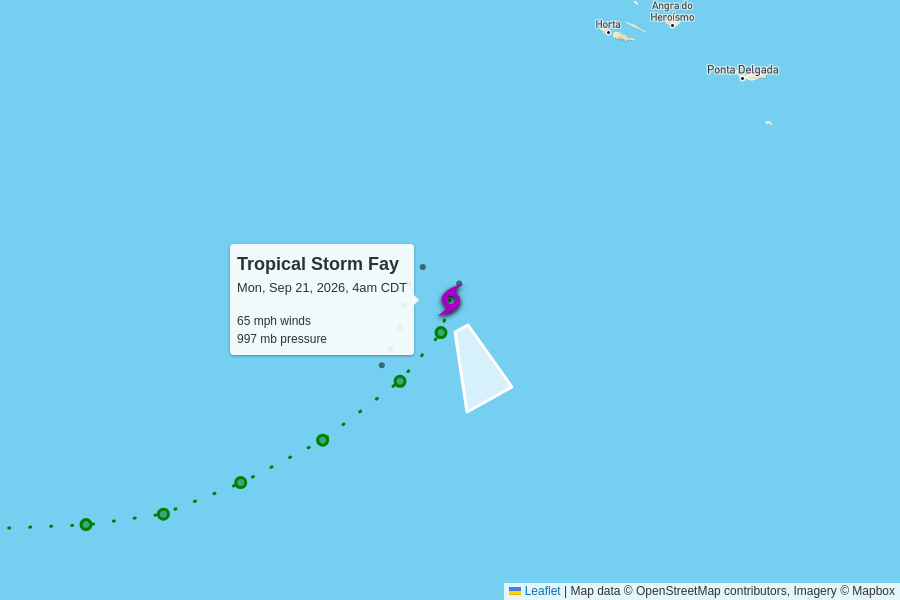
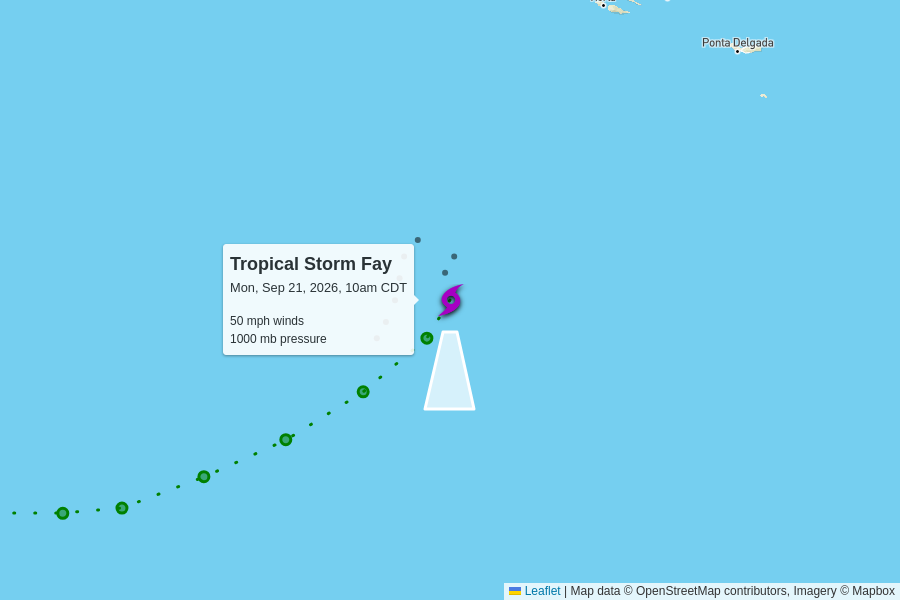
automatic update

diff --git a/docs/2026.html b/docs/2026.html
@@ -45,13 +45,13 @@
       <grid-container>
           <grid-row>
             <script type="text/json" id="storm_data_AL062026">
-              {"pressure":[{"timestamp":"2026-09-19T15:00:00.000Z","value":1009},{"timestamp":"2026-09-19T21:00:00.000Z","value":1007},{"timestamp":"2026-09-20T03:00:00.000Z","value":1007},{"timestamp":"2026-09-20T09:00:00.000Z","value":1004},{"timestamp":"2026-09-20T15:00:00.000Z","value":1004},{"timestamp":"2026-09-20T21:00:00.000Z","value":999},{"timestamp":"2026-09-21T03:00:00.000Z","value":995},{"timestamp":"2026-09-21T09:00:00.000Z","value":997}],"wind":[{"timestamp":"2026-09-19T15:00:00.000Z","value":35},{"timestamp":"2026-09-19T21:00:00.000Z","value":35},{"timestamp":"2026-09-20T03:00:00.000Z","value":35},{"timestamp":"2026-09-20T09:00:00.000Z","value":45},{"timestamp":"2026-09-20T15:00:00.000Z","value":60},{"timestamp":"2026-09-20T21:00:00.000Z","value":65},{"timestamp":"2026-09-21T03:00:00.000Z","value":70},{"timestamp":"2026-09-21T09:00:00.000Z","value":65}]}
+              {"pressure":[{"timestamp":"2026-09-19T15:00:00.000Z","value":1009},{"timestamp":"2026-09-19T21:00:00.000Z","value":1007},{"timestamp":"2026-09-20T03:00:00.000Z","value":1007},{"timestamp":"2026-09-20T09:00:00.000Z","value":1004},{"timestamp":"2026-09-20T15:00:00.000Z","value":1004},{"timestamp":"2026-09-20T21:00:00.000Z","value":999},{"timestamp":"2026-09-21T03:00:00.000Z","value":995},{"timestamp":"2026-09-21T09:00:00.000Z","value":997},{"timestamp":"2026-09-21T15:00:00.000Z","value":1000}],"wind":[{"timestamp":"2026-09-19T15:00:00.000Z","value":35},{"timestamp":"2026-09-19T21:00:00.000Z","value":35},{"timestamp":"2026-09-20T03:00:00.000Z","value":35},{"timestamp":"2026-09-20T09:00:00.000Z","value":45},{"timestamp":"2026-09-20T15:00:00.000Z","value":60},{"timestamp":"2026-09-20T21:00:00.000Z","value":65},{"timestamp":"2026-09-21T03:00:00.000Z","value":70},{"timestamp":"2026-09-21T09:00:00.000Z","value":65},{"timestamp":"2026-09-21T15:00:00.000Z","value":50}]}
             </script>              <grid-container class="storm">
                 <grid-row onClick="toggle('storm_AL062026')">
                   <h2>
                     Tropical Storm Fay
                     <div class="updated">
-                      last updated <time datetime="2026-09-21T09:00:00.000Z">2026-09-21T09:00:00.000Z</time>
+                      last updated <time datetime="2026-09-21T15:00:00.000Z">2026-09-21T15:00:00.000Z</time>
                     </div>
                   </h2>
                 </grid-row>
@@ -67,19 +67,19 @@
                       </tr>
                       <tr>
                         <td>
-                          65 mph
+                          50 mph
                           <br>
-                          -5 mph since last update
+                          -15 mph since last update
                         </td>
                         <td>
-                          997 mb
+                          1000 mb
                           <br>
-                          +2 mb since last update
+                          +3 mb since last update
                         </td>
                         <td>
-                          2 mph to the south-southeast
+                          5 mph to the south
                           <br>
-                          <span style="display: inline-block; font-size: 1.5em; transform: rotate(155deg);">↑</span>
+                          <span style="display: inline-block; font-size: 1.5em; transform: rotate(180deg);">↑</span>
                         </td>
                         <td>
                           <a href="https://raw.githubusercontent.com/mgwalker/atlantic-hurricanes/main/data/csv/AL062026.csv">AL062026.csv</a>

diff --git a/docs/index.html b/docs/index.html
@@ -45,13 +45,13 @@
       <grid-container>
           <grid-row>
             <script type="text/json" id="storm_data_AL062026">
-              {"pressure":[{"timestamp":"2026-09-19T15:00:00.000Z","value":1009},{"timestamp":"2026-09-19T21:00:00.000Z","value":1007},{"timestamp":"2026-09-20T03:00:00.000Z","value":1007},{"timestamp":"2026-09-20T09:00:00.000Z","value":1004},{"timestamp":"2026-09-20T15:00:00.000Z","value":1004},{"timestamp":"2026-09-20T21:00:00.000Z","value":999},{"timestamp":"2026-09-21T03:00:00.000Z","value":995},{"timestamp":"2026-09-21T09:00:00.000Z","value":997}],"wind":[{"timestamp":"2026-09-19T15:00:00.000Z","value":35},{"timestamp":"2026-09-19T21:00:00.000Z","value":35},{"timestamp":"2026-09-20T03:00:00.000Z","value":35},{"timestamp":"2026-09-20T09:00:00.000Z","value":45},{"timestamp":"2026-09-20T15:00:00.000Z","value":60},{"timestamp":"2026-09-20T21:00:00.000Z","value":65},{"timestamp":"2026-09-21T03:00:00.000Z","value":70},{"timestamp":"2026-09-21T09:00:00.000Z","value":65}]}
+              {"pressure":[{"timestamp":"2026-09-19T15:00:00.000Z","value":1009},{"timestamp":"2026-09-19T21:00:00.000Z","value":1007},{"timestamp":"2026-09-20T03:00:00.000Z","value":1007},{"timestamp":"2026-09-20T09:00:00.000Z","value":1004},{"timestamp":"2026-09-20T15:00:00.000Z","value":1004},{"timestamp":"2026-09-20T21:00:00.000Z","value":999},{"timestamp":"2026-09-21T03:00:00.000Z","value":995},{"timestamp":"2026-09-21T09:00:00.000Z","value":997},{"timestamp":"2026-09-21T15:00:00.000Z","value":1000}],"wind":[{"timestamp":"2026-09-19T15:00:00.000Z","value":35},{"timestamp":"2026-09-19T21:00:00.000Z","value":35},{"timestamp":"2026-09-20T03:00:00.000Z","value":35},{"timestamp":"2026-09-20T09:00:00.000Z","value":45},{"timestamp":"2026-09-20T15:00:00.000Z","value":60},{"timestamp":"2026-09-20T21:00:00.000Z","value":65},{"timestamp":"2026-09-21T03:00:00.000Z","value":70},{"timestamp":"2026-09-21T09:00:00.000Z","value":65},{"timestamp":"2026-09-21T15:00:00.000Z","value":50}]}
             </script>              <grid-container class="storm">
                 <grid-row onClick="toggle('storm_AL062026')">
                   <h2>
                     Tropical Storm Fay
                     <div class="updated">
-                      last updated <time datetime="2026-09-21T09:00:00.000Z">2026-09-21T09:00:00.000Z</time>
+                      last updated <time datetime="2026-09-21T15:00:00.000Z">2026-09-21T15:00:00.000Z</time>
                     </div>
                   </h2>
                 </grid-row>
@@ -67,19 +67,19 @@
                       </tr>
                       <tr>
                         <td>
-                          65 mph
+                          50 mph
                           <br>
-                          -5 mph since last update
+                          -15 mph since last update
                         </td>
                         <td>
-                          997 mb
+                          1000 mb
                           <br>
-                          +2 mb since last update
+                          +3 mb since last update
                         </td>
                         <td>
-                          2 mph to the south-southeast
+                          5 mph to the south
                           <br>
-                          <span style="display: inline-block; font-size: 1.5em; transform: rotate(155deg);">↑</span>
+                          <span style="display: inline-block; font-size: 1.5em; transform: rotate(180deg);">↑</span>
                         </td>
                         <td>
                           <a href="https://raw.githubusercontent.com/mgwalker/atlantic-hurricanes/main/data/csv/AL062026.csv">AL062026.csv</a>
